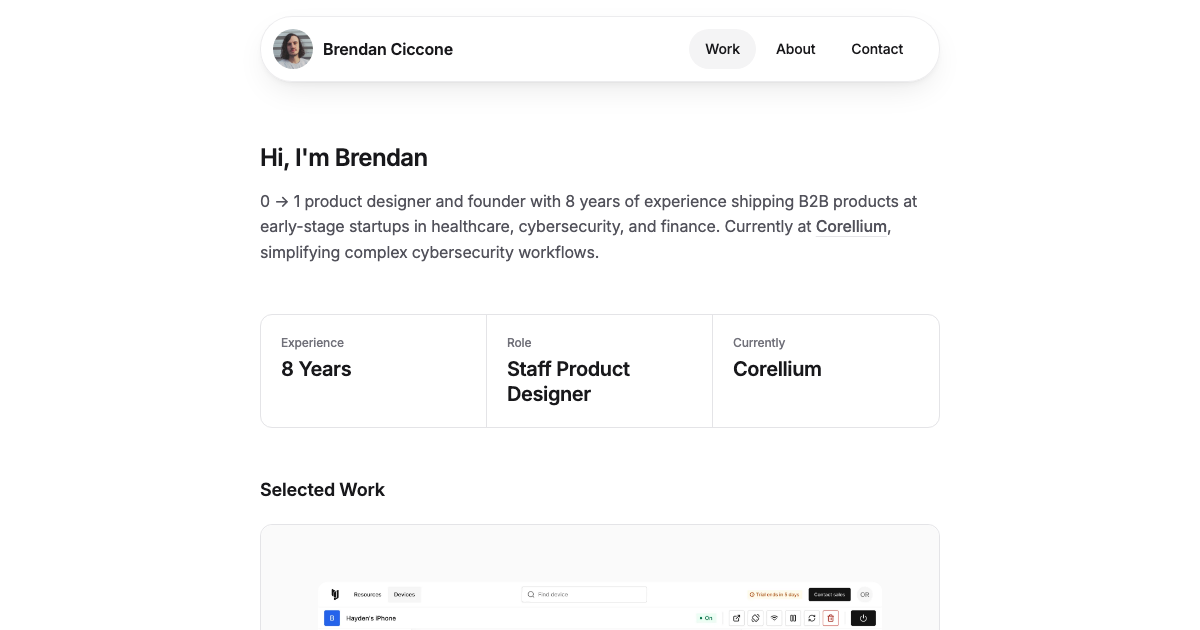
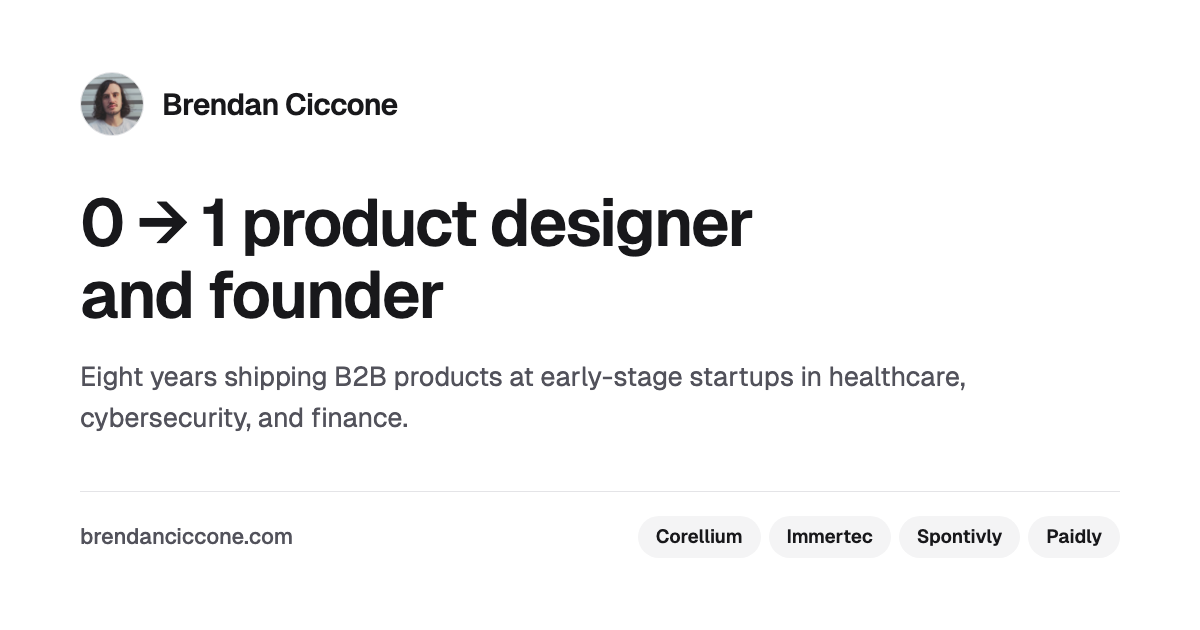
Regenerate the OG card for the new design
Rendered from the live tokens and typeface rather than drawn separately,
so it stays in step with the site: Geist, the zinc palette, the same
badge pill and hairline the pages use.

Declared dimensions now describe the file. app/layout.tsx says 1200x630
in both the OpenGraph and Twitter blocks; generatePageMetadata defaulted
to 1024x537, which described neither the old file nor the new one.
Scrapers reserve layout from the declared pair before the image lands,
so all three now agree at 1200x630.

diff --git a/lib/metadata.ts b/lib/metadata.ts
@@ -73,8 +73,12 @@ export function generatePageMetadata({
   path = '',
   imageUrl = baseMetadata.defaultImage,
   imageAlt = "Brendan Ciccone - 0 → 1 Staff Product Designer",
-  imageWidth = 1024,
-  imageHeight = 537,
+  /* The real dimensions of public/og.png, and the same pair app/layout.tsx
+     declares. These were 1024x537, which did not describe the file then either
+     — it was already 1200x630. Scrapers lay the card out from the declared size
+     before the image arrives, so a wrong pair reserves the wrong box. */
+  imageWidth = 1200,
+  imageHeight = 630,
 }: PageMetadataParams): Metadata {
   const pageTitle = title
     ? `${title} - Brendan Ciccone - 0 → 1 Staff Product Designer`
